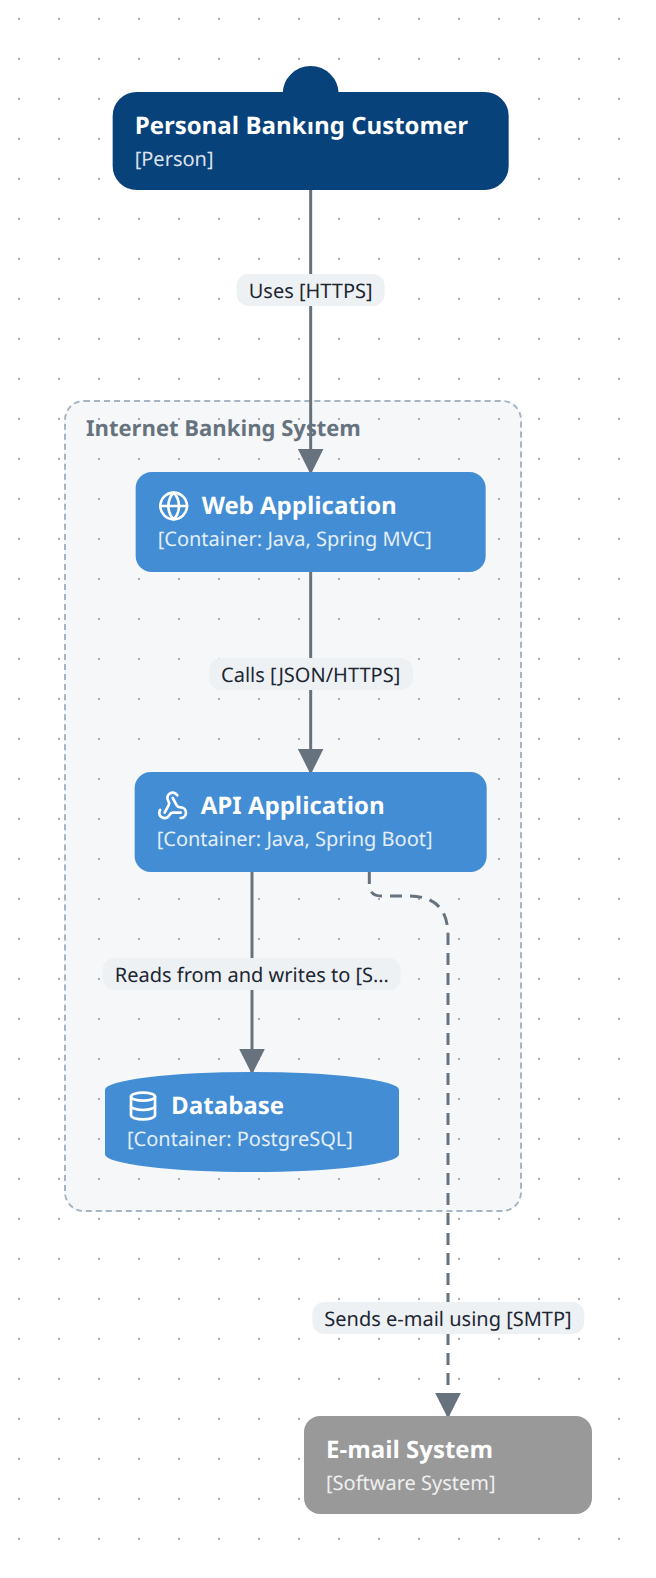
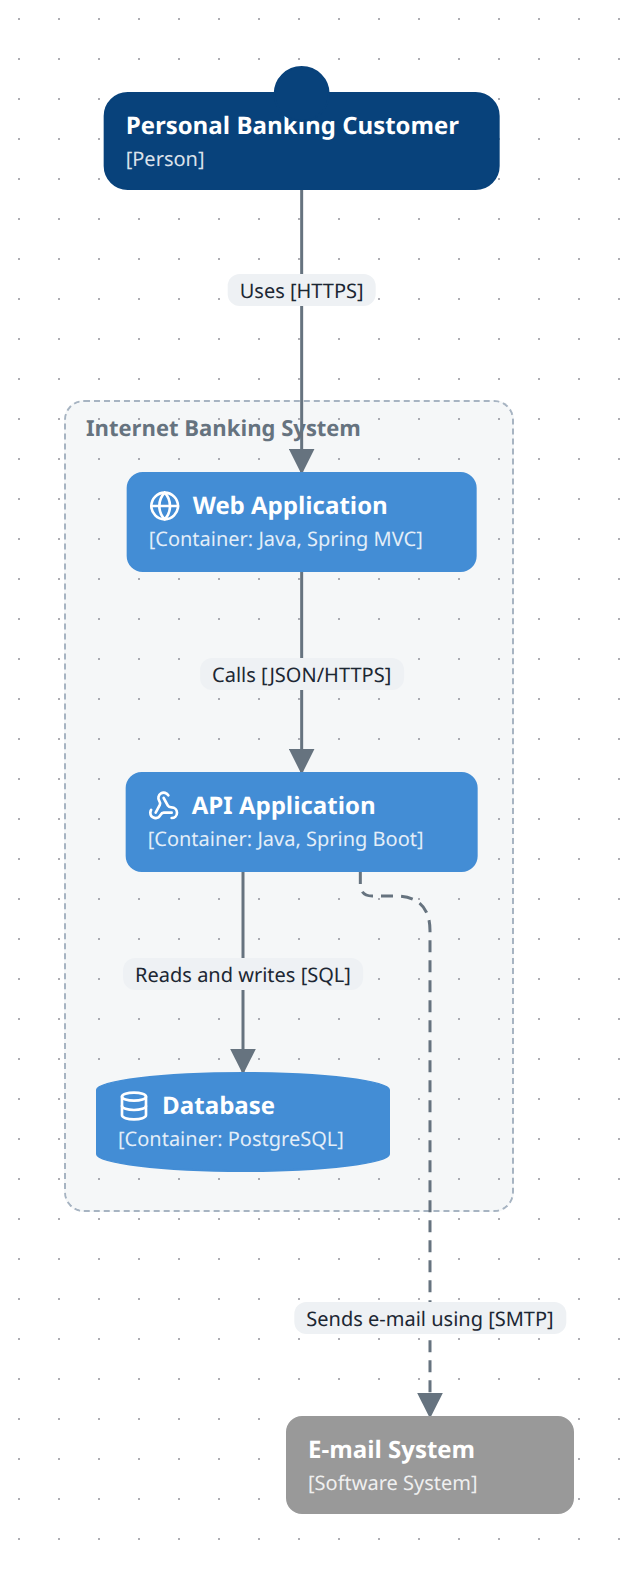
docs: shorten the C4 figure's label that the renderer cut off, and say where the cut is

diff --git a/.diagrams/src/docs/c4.diagram.ts b/.diagrams/src/docs/c4.diagram.ts
@@ -19,7 +19,7 @@ banking.contains(web, api, db);
 
 m.relate(customer, web, { kind: 'sync', label: 'Uses [HTTPS]' });
 m.relate(web, api, { kind: 'sync', label: 'Calls [JSON/HTTPS]' });
-m.relate(api, db, { kind: 'reads', label: 'Reads from and writes to [SQL/TCP]' });
+m.relate(api, db, { kind: 'reads', label: 'Reads and writes [SQL]' });
 m.relate(api, mail, { kind: 'async', label: 'Sends e-mail using [SMTP]' });
 
 export default m;

diff --git a/docs/reference/builder-api.md b/docs/reference/builder-api.md
@@ -78,7 +78,7 @@ Duplicate parent/child/plane triples are ignored, so calling it twice is safe. A
 | --- | --- | --- |
 | `kind` | `string` | **Required.** Free-form. |
 | `id` | `string?` | Explicit relation id. Default `${from}->${to}#${n}`. The pair counter advances either way, so a later un-id'd relation on the same pair still gets the suffix it would have gotten without the override. |
-| `label` | `string?` | |
+| `label` | `string?` | The arrow's text. Drawn in a chip that is ellipsised at about 24 characters (the hover title keeps the full text), so keep it to a phrase. |
 | `labels` | `EdgeLabel[]?` | Positioned edge labels; supersedes `label` when present. See [Model reference](model.md#edgelabel). |
 | `threats` | `Threat[]?` | STRIDE findings, `id` and all. Prefer `FlowRef.threat()` — see [`ref.threat()`](#refthreatopts--ref) — which synthesizes the id. See [Model reference](model.md#threat). |
 | `description` | `string?` | |

diff --git a/docs/how-to/draw-a-c4-diagram.md b/docs/how-to/draw-a-c4-diagram.md
@@ -36,7 +36,7 @@ C4 elements are ordinary nodes with `type: 'c4-*'` — stencils from the **Libra
    ```ts
    m.relate(customer, web, { kind: 'sync', label: 'Uses [HTTPS]' });
    m.relate(web, api, { kind: 'sync', label: 'Calls [JSON/HTTPS]' });
-   m.relate(api, db, { kind: 'reads', label: 'Reads from and writes to [SQL/TCP]' });
+   m.relate(api, db, { kind: 'reads', label: 'Reads and writes [SQL]' });
    m.relate(api, mail, { kind: 'async', label: 'Sends e-mail using [SMTP]' });
 
    export default m;
